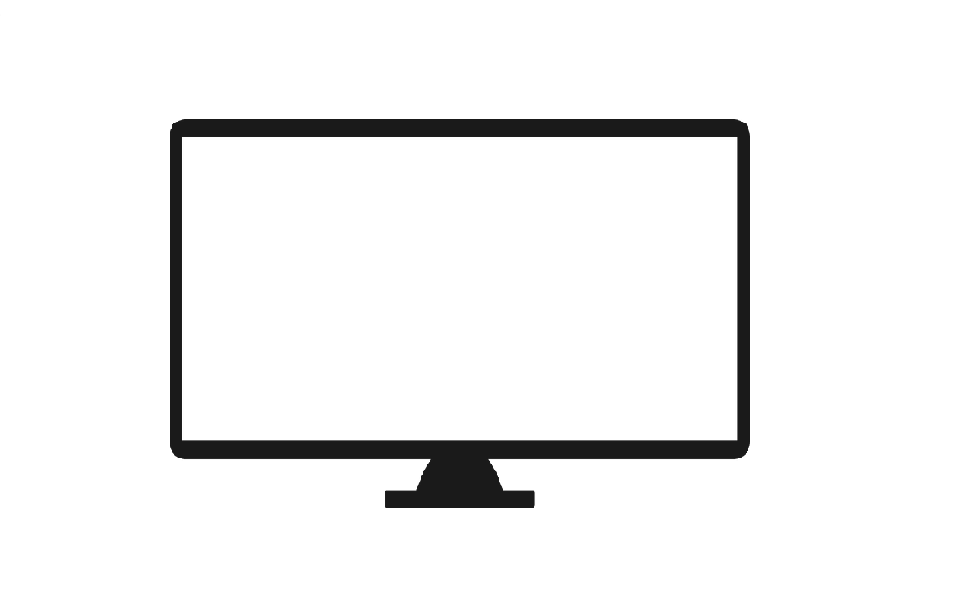
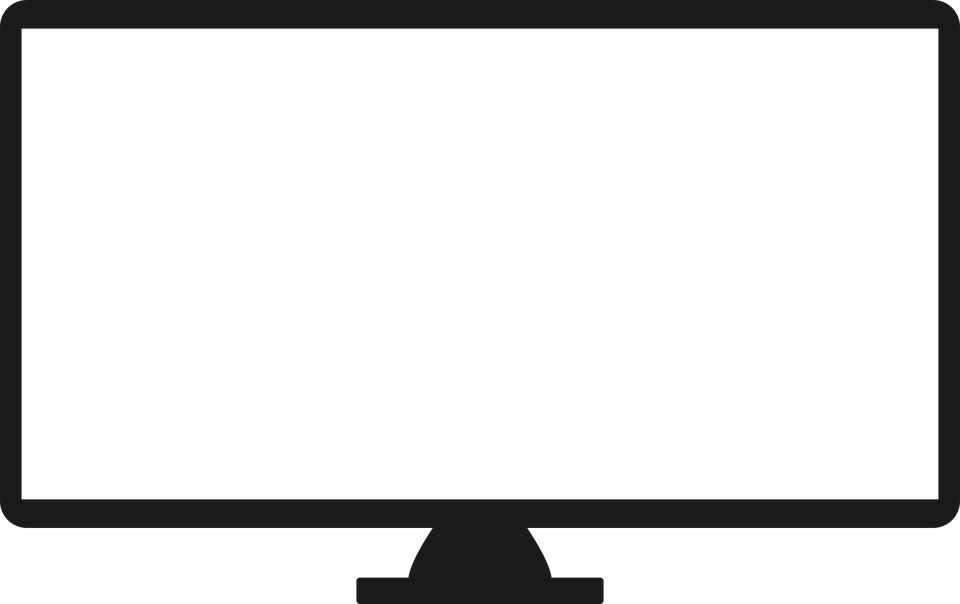
contato.finalizado

Changed region(s): [[0.0, 0.0, 1.0, 1.0]]

diff --git a/mmedia.html b/mmedia.html
@@ -18,7 +18,8 @@
 		</hgroup>
 	<nav id="menu-principal">
 			<ul type="square">
-				<a href="index.html"><li>Home</li></a><a href="empresa.html"><li>Empresa</li></a>
+				<a href="index.html"><li>Home</li></a>
+				<a href="empresa.html"><li>Empresa</li></a>
 				<a href="solucoes.html"><li>Soluções</li></a>
 				<a href="clientes.html"><li>Clientes</li></a>
 				<a href="mmedia.html"><li>Multimidia</li></a>
@@ -30,7 +31,7 @@
 				<div id="midia">
 					<h1>Multimídia e colaboradores</h1>
 					<video id="filme" controls poster="imagens/video-mini03.jpg">
-						<source src="_video/ESPIRAL MÁGICA.mp4" type="video/mp4"/>
+						<source src="_video/ESPIRAL MÁGICA.mp4" type="video/mp4" />
 					</video>
 					<audio id="musica" controls>
 						<source src="_musica/Daft Punk - Lose Yourself To Dance.mp3" type="audio/mpeg"/>

diff --git a/contato.html b/contato.html
@@ -60,7 +60,7 @@
                             </p>
                         </fieldset>
                         <fieldset id="endereco">
-                            <legend> Endereço </legend>
+                            <legend> Endereço </legend> 
                             <p>
                                 <label for="logradouro">
                                     Logradouro:
@@ -73,7 +73,6 @@
                                 </label>
                                 <input type="number" id="numero"/>
                             </p>
-                                <input type="image" id="casa" src="_imagens/casa.1.png" width="90px" height="100px" />
                             <p>
                                 <label for="estado">
                                     Estado

diff --git a/_css/contato.css b/_css/contato.css
@@ -16,15 +16,35 @@ legend{
 }
 fieldset{
 	border-bottom: 1px solid red;
+
+
+
 }
-#casa{
-	margin: 50px;
+fieldset#sexo {
+
+}
+
+fieldset#usuario {
+	background:url("../_imagens/usuario-contato.jpg") no-repeat ;
+	background-size: 100px;
+	background-position: 35% 5%;
+}
+fieldset#endereco {
+	background:url("../_imagens/casa.1.png") no-repeat;
+	background-size: 120px;
+	background-position: 35% 50%;
+}
+fieldset#mensagem {
+	background:url("../_imagens/mensagem2.jpg") no-repeat ;
+	background-position: 35% 70%;
+	background-size: 130px;
+	
 }
 #botao{
 	margin-left: 140px;
-	width: 80px;
-	height:40px;
-	margin:0px;
+	width: 90px;
+    height: 40px;
+    margin: 0px;
 }
 p {
 	text-indent: 0px;

diff --git a/_css/mmedia.css b/_css/mmedia.css
@@ -4,14 +4,13 @@
 	margin: auto;
 }
 #filme{
+	width:650px;
+	height: 300px;
 	display: block;
-	width: 780px;
-	height: 500px;
-	margin: auto;
 	background:url("../_imagens/televisao.png") no-repeat;
-	background-position: 4% 70%;
+	background-position: 80% 60%;
+	background-size: 450px;
 	position: center;
-
 }
 #musica {
 	display: block;
